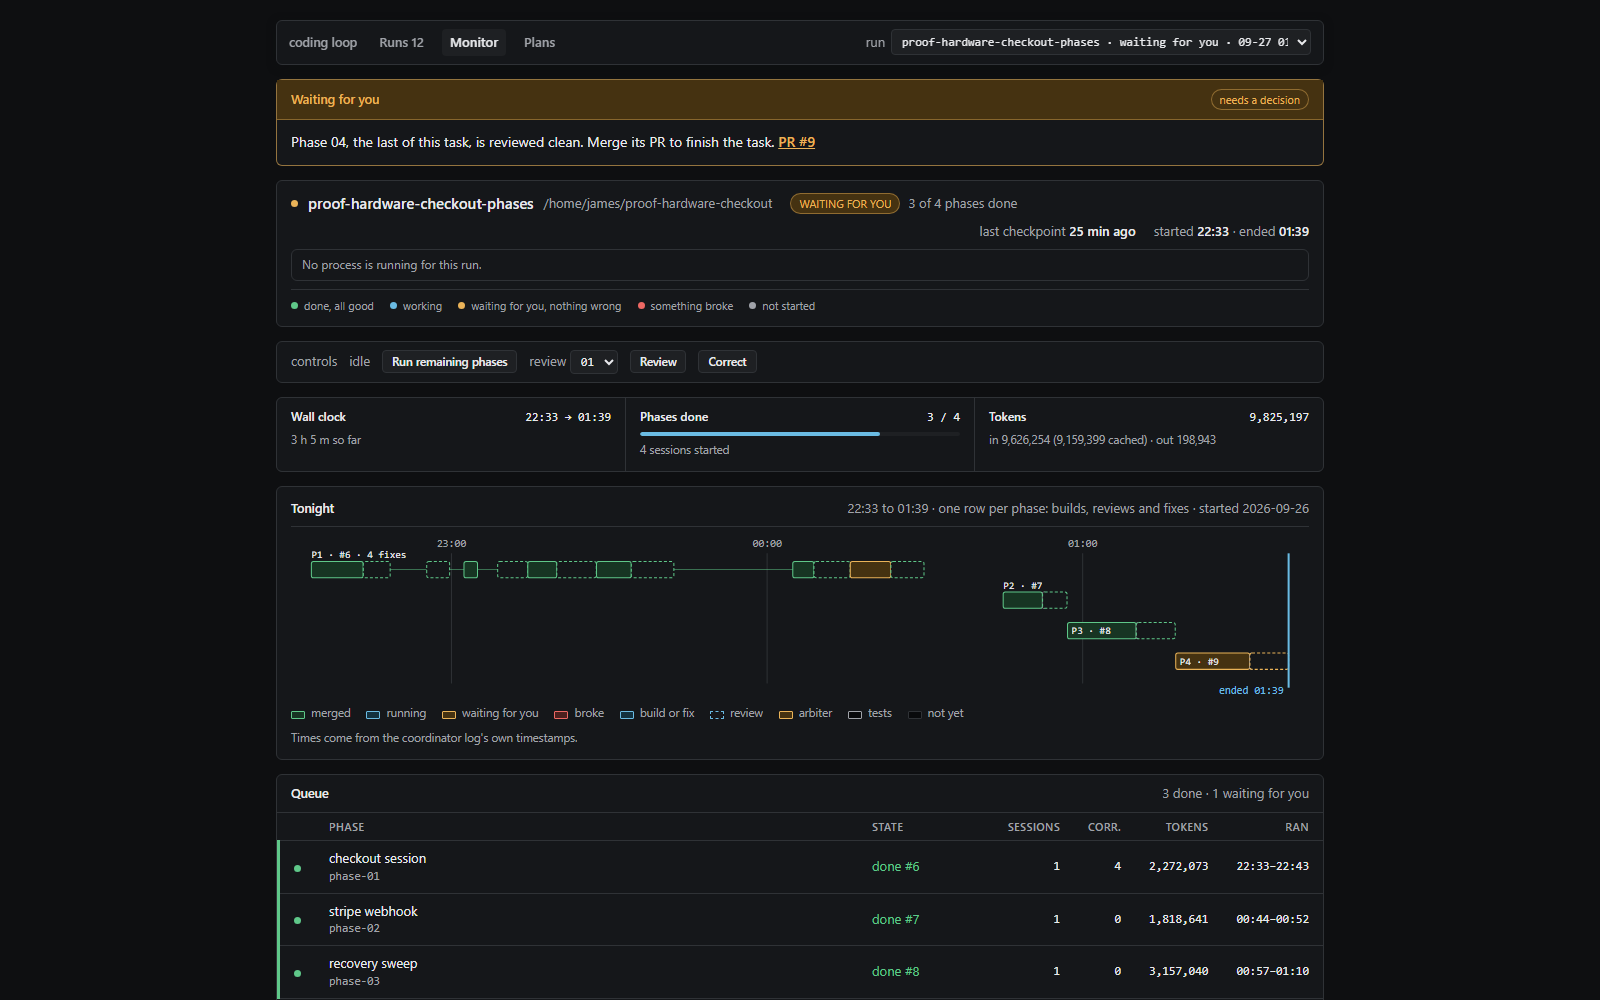
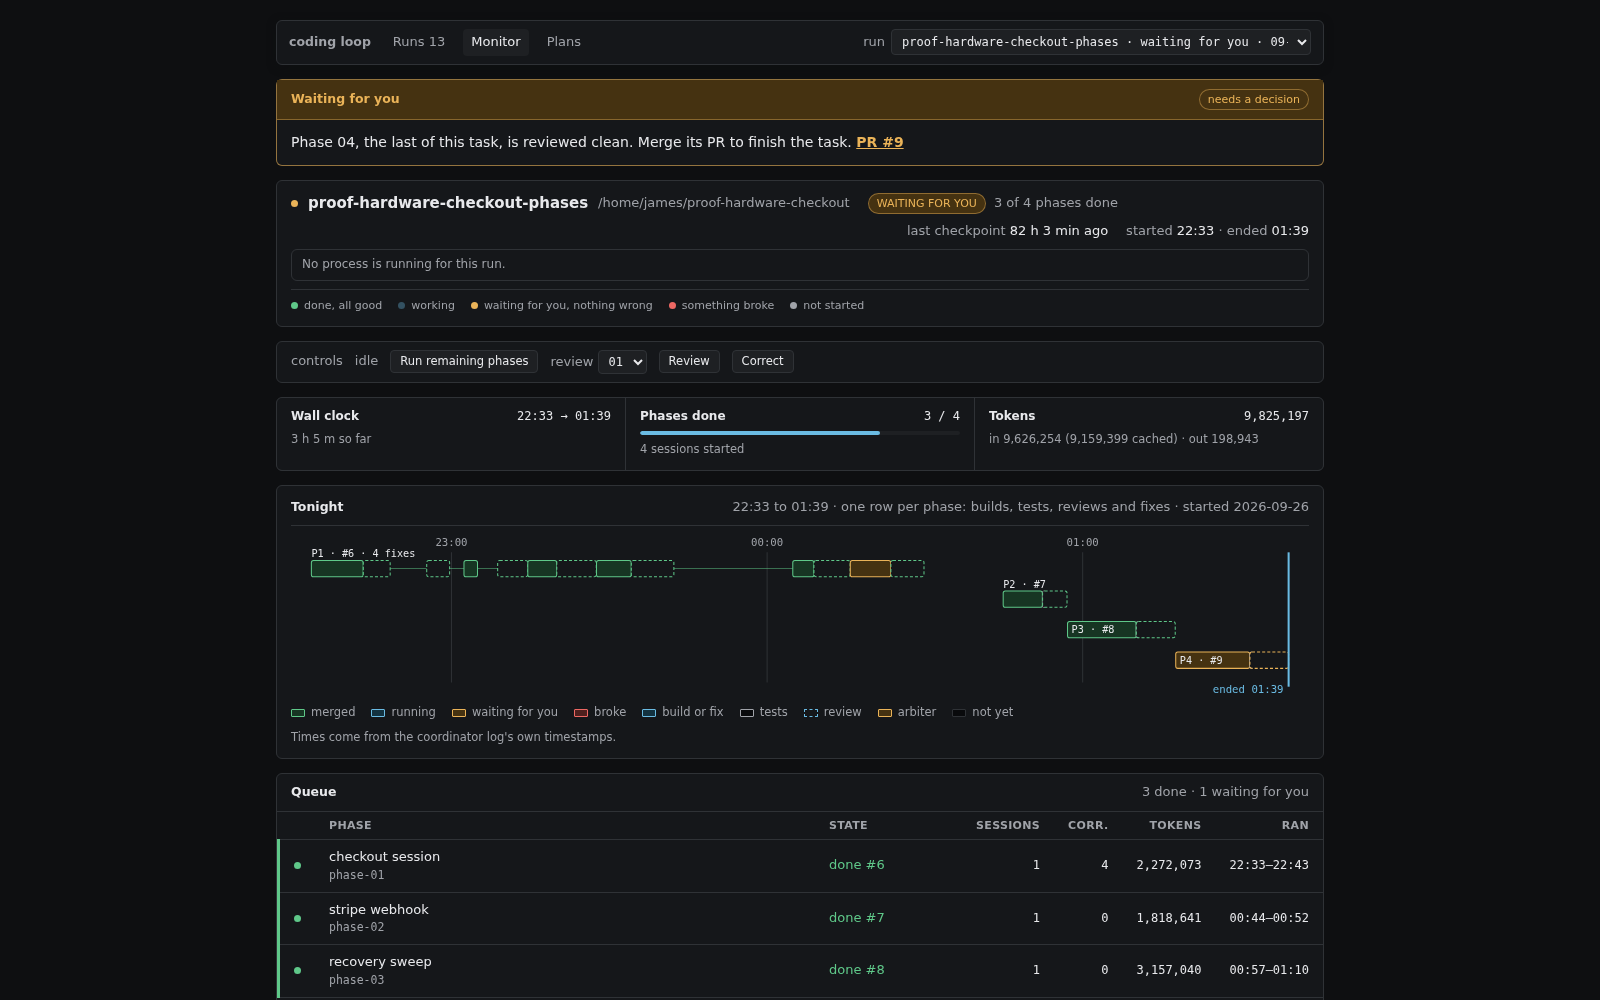
List tests before review in the monitor's timeline legend
The legend order read as if tests came after review. The screenshot is retaken from the same recorded run.

diff --git a/scripts/monitor/index.html b/scripts/monitor/index.html
@@ -708,7 +708,7 @@ footer.note a{color:var(--running)}
       }
     }
     var aria = 'Timeline from ' + clock(t0) + ' to the ' + clock(t1) + ' deadline. ' + (summary.join('. ') || 'No packet has started.') + '. Now ' + clock(end) + '.';
-    var tapeCaption = noDeadline ? h(clock(t0)) + ' to ' + h(clock(end)) + ' · one row per phase: builds, reviews and fixes' : h(clock(t0)) + ' to the ' + h(clock(t1)) + ' deadline · each tick is one model call';
+    var tapeCaption = noDeadline ? h(clock(t0)) + ' to ' + h(clock(end)) + ' · one row per phase: builds, tests, reviews and fixes' : h(clock(t0)) + ' to the ' + h(clock(t1)) + ' deadline · each tick is one model call';
     return '<figure class="panel tape" aria-label="Timeline"><header><h2>Tonight</h2><span class="muted">' +
       tapeCaption + (dayOf(t0) !== dayOf(now) ? ' · started ' + h(dayOf(t0)) : '') + '</span></header>' +
       '<div class="scroll"><svg viewBox="0 0 1000 ' + height + '" role="img" aria-label="' + h(aria) + '">' + svg.join('') + '</svg></div>' +
@@ -716,7 +716,7 @@ footer.note a{color:var(--running)}
       '<span><i style="background:var(--running-soft);border:1px solid var(--running)"></i>running</span>' +
       '<span><i style="background:var(--attention-soft);border:1px solid var(--attention)"></i>waiting for you</span>' +
       '<span><i style="background:var(--failed-soft);border:1px solid var(--failed)"></i>broke</span>' +
-      (b.mode === 'phases' ? '<span><i style="background:var(--running-soft);border:1px solid var(--running)"></i>build or fix</span><span><i style="border:1px dashed var(--running)"></i>review</span><span><i style="background:var(--attention-soft);border:1px solid var(--attention)"></i>arbiter</span><span><i style="background:var(--sunken);border:1px solid var(--muted)"></i>tests</span>' : '<span><i style="background:var(--fg);opacity:.7;width:2px"></i>model call</span>') +
+      (b.mode === 'phases' ? '<span><i style="background:var(--running-soft);border:1px solid var(--running)"></i>build or fix</span><span><i style="background:var(--sunken);border:1px solid var(--muted)"></i>tests</span><span><i style="border:1px dashed var(--running)"></i>review</span><span><i style="background:var(--attention-soft);border:1px solid var(--attention)"></i>arbiter</span>' : '<span><i style="background:var(--fg);opacity:.7;width:2px"></i>model call</span>') +
       '<span><i style="background:var(--sunken);border:1px solid var(--hair)"></i>not yet</span></div>' +
       '<figcaption>' + (b.mode === 'phases' ? 'Times come from the coordinator log\'s own timestamps.' : 'Times come from file modification times until the event log ships, so treat them as approximate to a minute.') + '</figcaption></figure>';
   }
